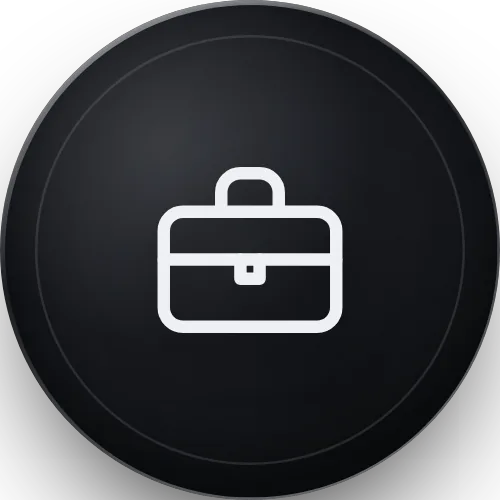
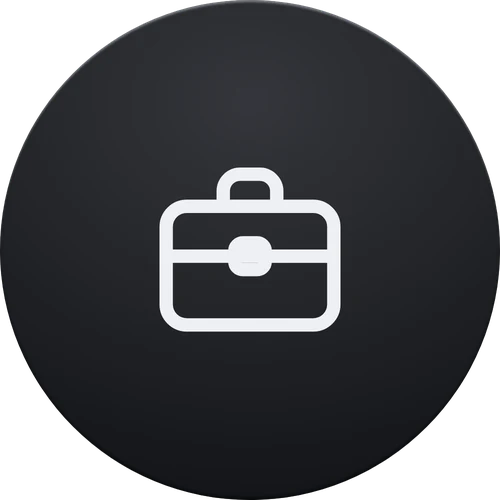
Hablarle a profesionistas, pymes y empresarios
Cambian las tres fichas del público, y con ellas el texto y el icono,
porque los tres estaban escritos para otra persona:

  Profesionistas  Tu cédula, tu especialidad y la cita, sin dictar nada.
  Pymes           Tu catálogo y tu agenda en su teléfono, no en un folleto.
  Empresarios     Cambias un puesto una vez, no reimprimes 500 tarjetas.

La línea de la cédula ya estaba y encaja mejor aquí que antes: la
cédula profesional es de cualquier profesionista, no solo de un
abogado. La de pymes es nueva — el folleto de feria es lo que una pyme
sí reparte y sí termina en el suelo.

Los usé en plural los tres. "Pymes" no tiene singular cómodo y mezclar
"Profesionista / Pymes / Empresarios" dejaba el trío desparejo.

Iconos nuevos, los tres renderizados de una sola plantilla para que no
puedan salir distintos entre sí: una credencial para profesionistas (la
balanza era de juzgado), un local con su toldo para pymes (el cohete
era de startup) y el portafolio redibujado con la misma pluma. Se van
badge-abogado y badge-emprendedor.

La misma palabra en compromiso.html, que decía "profesionales,
emprendedores y empresas".

Y el logo de Instagram: 26px dentro de una caja de 48. A 19 dentro de
44 nadaba en su propio marco y se leía como un descuido.

Verificado: las tres fichas libres del botón fijo en 360, 390 y 414 de
ancho, medido con los rectángulos reales de cada renglón. 7 anchos x
ambos modos de movimiento sin desbordes ni errores. impeccable 0
[…]

diff --git a/vantacard-web/index.html b/vantacard-web/index.html
@@ -177,8 +177,8 @@
            center before the phone-approach animation (scroll-driven)
            takes over. -->
       <div class="profile-panel" id="profilePanel" aria-hidden="true">
-        <span class="profile-panel__label" id="profileLabel">Abogado</span>
-        <img class="profile-panel__icon" id="profileIcon" src="assets/badge-abogado.webp" alt="" width="200" height="200" />
+        <span class="profile-panel__label" id="profileLabel">Profesionistas</span>
+        <img class="profile-panel__icon" id="profileIcon" src="assets/badge-profesionista.webp" alt="" width="200" height="200" />
         <p class="profile-panel__benefit" id="profileBenefit">Tu cédula, tu especialidad y la cita, sin dictar nada.</p>
         <div class="profile-panel__dots" id="profileDots">
           <span class="profile-panel__dot profile-panel__dot--active"></span>
@@ -431,7 +431,7 @@
         <div class="footer__col reveal-up">
           <h4>Síguenos</h4>
           <a class="social-link" id="instagramLink" href="https://www.instagram.com/vantacard.pro/" target="_blank" rel="noopener" aria-label="VantaCard en Instagram">
-            <svg viewBox="0 0 24 24" fill="none" stroke="currentColor" stroke-width="1.5" stroke-linecap="round" stroke-linejoin="round" aria-hidden="true">
+            <svg viewBox="0 0 24 24" fill="none" stroke="currentColor" stroke-width="1.6" stroke-linecap="round" stroke-linejoin="round" aria-hidden="true">
               <rect x="3" y="3" width="18" height="18" rx="5.2"/>
               <circle cx="12" cy="12" r="4"/>
               <circle cx="17.3" cy="6.7" r="1.15" fill="currentColor" stroke="none"/>

diff --git a/vantacard-web/js/main.js b/vantacard-web/js/main.js
@@ -521,19 +521,19 @@ document.addEventListener("DOMContentLoaded", () => {
   // panel is not blank before this file runs. Change one, change both.
   const PROFILES = [
     {
-      label: "Abogado",
+      label: "Profesionistas",
       dir: 1, // right
       benefit: "Tu cédula, tu especialidad y la cita, sin dictar nada.",
-      icon: "assets/badge-abogado.webp",
+      icon: "assets/badge-profesionista.webp",
     },
     {
-      label: "Emprendedor",
+      label: "Pymes",
       dir: -1, // left
-      benefit: "Tu proyecto completo, no un “ahorita te paso el link”.",
-      icon: "assets/badge-emprendedor.webp",
+      benefit: "Tu catálogo y tu agenda en su teléfono, no en un folleto.",
+      icon: "assets/badge-pyme.webp",
     },
     {
-      label: "Empresario",
+      label: "Empresarios",
       dir: 1, // right
       benefit: "Cambias un puesto una vez, no reimprimes 500 tarjetas.",
       icon: "assets/badge-empresario.webp",
@@ -590,7 +590,7 @@ document.addEventListener("DOMContentLoaded", () => {
       anticipatePin: 1,
     },
   });
-  syncProfile(); // set the initial "Abogado" state before any scrolling happens
+  syncProfile(); // set the initial "Profesionistas" state before any scrolling happens
 
   // One uniform step, repeated identically for every profile: card
   // dips to ZIGZAG_Y and slides toward `dir`, the panel fades out,

diff --git a/vantacard-web/compromiso.html b/vantacard-web/compromiso.html
@@ -148,7 +148,7 @@
         <span class="impact__num">01</span>
         <div>
           <h3>Impulsar oportunidades</h3>
-          <p>Conectar a profesionales, emprendedores y empresas con quien puede convertirse en su próximo cliente.</p>
+          <p>Conectar a profesionistas, pymes y empresarios con quien puede convertirse en su próximo cliente.</p>
           <p class="impact__ods">ODS 08 — Trabajo decente y crecimiento económico</p>
         </div>
       </article>
@@ -230,7 +230,7 @@
       <div class="footer__col reveal-up">
         <h4>Síguenos</h4>
         <a class="social-link" id="instagramLink" href="https://www.instagram.com/vantacard.pro/" target="_blank" rel="noopener" aria-label="VantaCard en Instagram">
-          <svg viewBox="0 0 24 24" fill="none" stroke="currentColor" stroke-width="1.5" stroke-linecap="round" stroke-linejoin="round" aria-hidden="true">
+          <svg viewBox="0 0 24 24" fill="none" stroke="currentColor" stroke-width="1.6" stroke-linecap="round" stroke-linejoin="round" aria-hidden="true">
             <rect x="3" y="3" width="18" height="18" rx="5.2"/>
             <circle cx="12" cy="12" r="4"/>
             <circle cx="17.3" cy="6.7" r="1.15" fill="currentColor" stroke="none"/>

diff --git a/vantacard-web/css/styles.css b/vantacard-web/css/styles.css
@@ -1139,10 +1139,12 @@ h3 {
   display: inline-flex;
   align-items: center;
   justify-content: center;
-  /* 44px, not 42: below that it stops being a comfortable tap target
-     on a phone, which is the only place this link really gets used. */
-  width: 44px;
-  height: 44px;
+  /* 48px box, 26px mark. At 44/19 the glyph was swimming in its own
+     frame and read as an afterthought; this is the same ratio the
+     step icons use, at a size that actually carries a logo. Still
+     comfortably above the 44px tap-target floor. */
+  width: 48px;
+  height: 48px;
   border: 1px solid var(--border);
   border-radius: var(--radius-sm);
   color: var(--text-secondary);
@@ -1150,8 +1152,8 @@ h3 {
 }
 
 .social-link svg {
-  width: 19px;
-  height: 19px;
+  width: 26px;
+  height: 26px;
 }
 
 @media (hover: hover) and (pointer: fine) {
